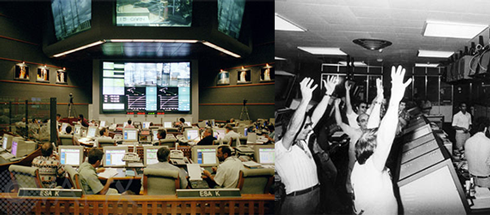
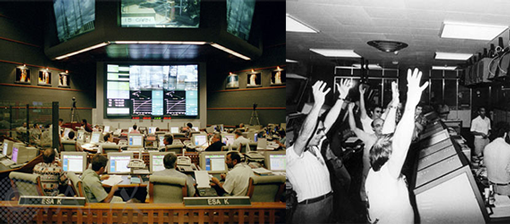
invitaiton xl release

diff --git a/webinar-labs/webinar-xl-release.html b/webinar-labs/webinar-xl-release.html
@@ -8,7 +8,7 @@
              <!-- Start of logo, date, forward and home links container -->
              <!-- End of logo, date, forward and home links container -->
              <!-- Start of full width image -->
-             <table bgcolor="#ffffff" width="570" align="center" cellpadding="0" cellspacing="0">
+             <table bgcolor="#ffffff" width="600" align="center" cellpadding="0" cellspacing="0">
                  <tbody>
 <tr>
 <td rowspan="2">
